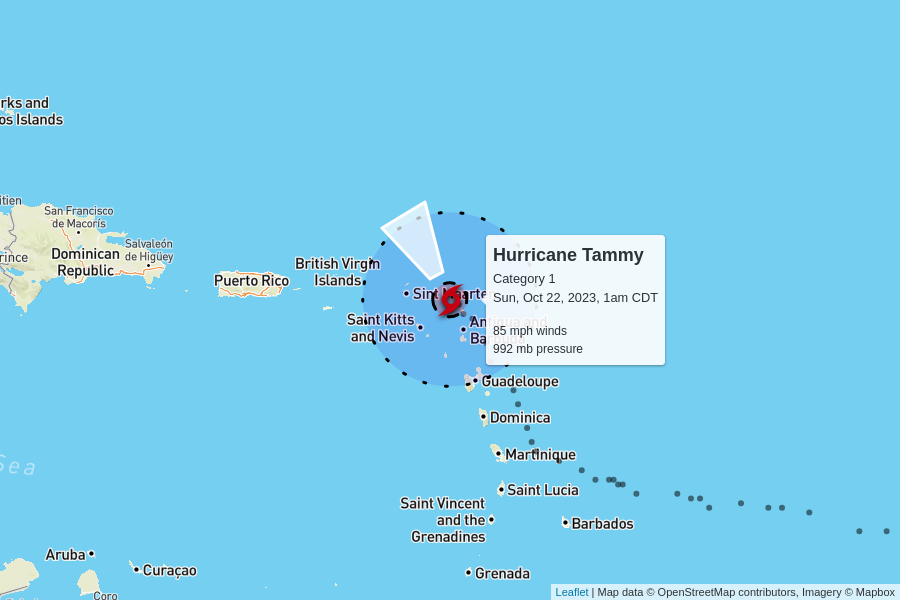
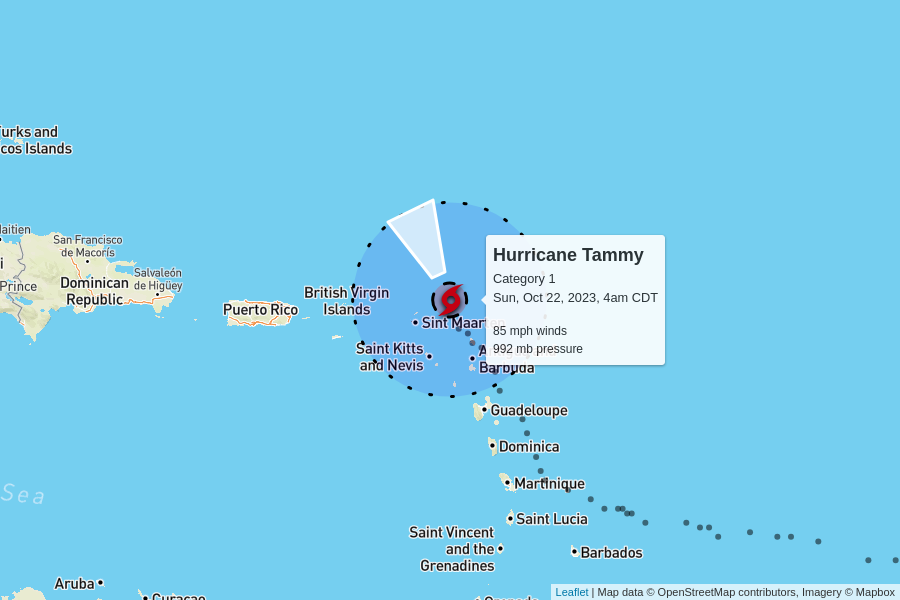
automatic update

diff --git a/docs/index.html b/docs/index.html
@@ -102,7 +102,7 @@
         <td colspan="6" class="storm category-1" >
           <h2>
             Hurricane Tammy - Category 1
-            <p class="updated">last updated <span data-time>2023-10-22T06:00:00.000Z</span></p>
+            <p class="updated">last updated <span data-time>2023-10-22T09:00:00.000Z</span></p>
           </h2>
         </td>
       </tr>
@@ -122,7 +122,7 @@
         <td>
           10 mph to the north-northwest
           <br/>
-          <span style="display: inline-block; font-size: 1.5em; transform: rotate(330deg);">↑</span>
+          <span style="display: inline-block; font-size: 1.5em; transform: rotate(335deg);">↑</span>
         </td>
         <td><a href="https://raw.githubusercontent.com/mgwalker/atlantic-hurricanes/main/data/csv/AL202023.csv">AL202023.csv</a></td>
         <td><a href="https://www.nhc.noaa.gov/archive/2023/TAMMY.shtml?">NHC advisories</a></td>
